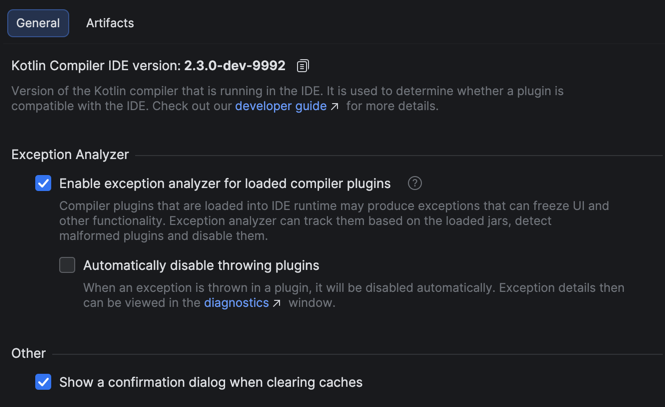
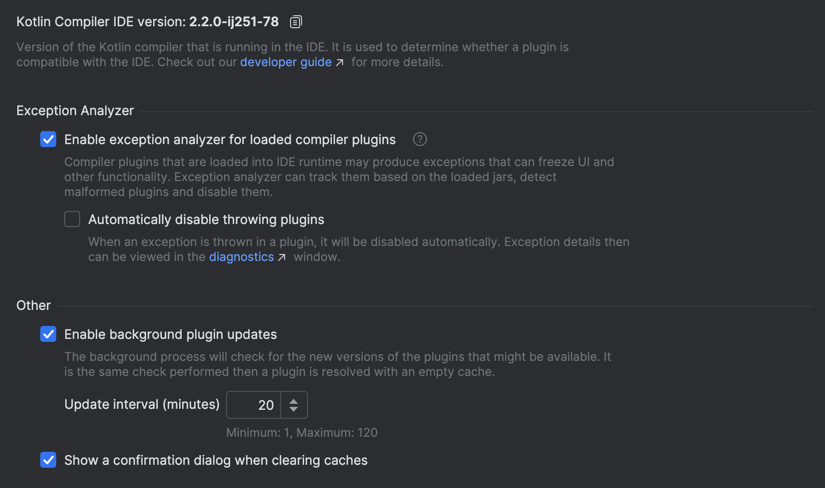
Added background updates settings

diff --git a/src/main/kotlin/com/github/mr3zee/kotlinPlugins/KotlinPluginsConfigurable.kt b/src/main/kotlin/com/github/mr3zee/kotlinPlugins/KotlinPluginsConfigurable.kt
@@ -16,6 +16,7 @@ import com.intellij.openapi.ui.emptyText
 import com.intellij.openapi.ui.popup.Balloon
 import com.intellij.openapi.ui.popup.JBPopupFactory
 import com.intellij.ui.ContextHelpLabel
+import com.intellij.ui.JBIntSpinner
 import com.intellij.ui.ToolbarDecorator
 import com.intellij.ui.awt.RelativePoint
 import com.intellij.ui.components.JBCheckBox
@@ -29,6 +30,7 @@ import com.intellij.ui.dsl.builder.RightGap
 import com.intellij.ui.dsl.builder.Row
 import com.intellij.ui.dsl.builder.actionButton
 import com.intellij.ui.dsl.builder.panel
+import com.intellij.ui.layout.selected
 import com.intellij.ui.table.JBTable
 import com.intellij.util.ui.FormBuilder
 import com.intellij.util.ui.JBUI
@@ -52,24 +54,30 @@ private class LocalState {
     var showCacheClearConfirmationDialog: Boolean = true
     var exceptionAnalyzerEnabled: Boolean = false
     var autoDiablePlugins: Boolean = false
+    var autoUpdateEnabled: Boolean = true
+    var autoUpdateInterval: Int = 20
 
     fun isModified(
         analyzer: KotlinPluginsExceptionAnalyzerState,
         tree: KotlinPluginsTreeState,
         settings: KotlinPluginsSettings.State,
+        storage: KotlinPluginsStorageState,
     ): Boolean {
         return repositories != settings.repositories ||
                 plugins != settings.plugins ||
                 pluginsEnabled != settings.pluginsEnabled ||
                 exceptionAnalyzerEnabled != analyzer.enabled ||
                 showCacheClearConfirmationDialog != tree.showClearCachesDialog ||
-                autoDiablePlugins != analyzer.autoDisable
+                autoDiablePlugins != analyzer.autoDisable ||
+                autoUpdateEnabled != storage.autoUpdate ||
+                autoUpdateInterval != storage.updateInterval
     }
 
     fun reset(
         analyzer: KotlinPluginsExceptionAnalyzerState,
         tree: KotlinPluginsTreeState,
         settings: KotlinPluginsSettings.State,
+        storage: KotlinPluginsStorageState,
     ) {
         repositories.clear()
         repositories.addAll(settings.repositories)
@@ -83,12 +91,15 @@ private class LocalState {
         exceptionAnalyzerEnabled = analyzer.enabled
         showCacheClearConfirmationDialog = tree.showClearCachesDialog
         autoDiablePlugins = analyzer.autoDisable
+        autoUpdateEnabled = storage.autoUpdate
+        autoUpdateInterval = storage.updateInterval
     }
 
     fun applyTo(
         analyzer: KotlinPluginsExceptionAnalyzerService,
         tree: KotlinPluginsTreeState,
         settings: KotlinPluginsSettings,
+        storage: KotlinPluginsStorage,
     ) {
         val enabledPlugins = plugins.map {
             it.copy(enabled = pluginsEnabled[it.name] ?: it.enabled)
@@ -98,6 +109,7 @@ private class LocalState {
 
         analyzer.updateState(exceptionAnalyzerEnabled, autoDiablePlugins)
         tree.showClearCachesDialog = showCacheClearConfirmationDialog
+        storage.updateState(autoUpdateEnabled, autoUpdateInterval)
     }
 
     private val KotlinPluginsSettings.State.pluginsEnabled: Map<String, Boolean>
@@ -115,6 +127,9 @@ internal class KotlinPluginsConfigurable(private val project: Project) : Configu
     private lateinit var clearCachesCheckBox: JBCheckBox
     private lateinit var enableAnalyzerCheckBox: JBCheckBox
     private lateinit var autoDisablePluginsCheckBox: JBCheckBox
+
+    private lateinit var autoUpdateCheckBox: JBCheckBox
+    private lateinit var autoUpdateInterval: JBIntSpinner
 
     private var rootPanel: JPanel? = null
 
@@ -303,6 +318,33 @@ internal class KotlinPluginsConfigurable(private val project: Project) : Configu
 
             group(KotlinPluginsBundle.message("group.other")) {
                 row {
+                    autoUpdateCheckBox = checkBox(KotlinPluginsBundle.message("settings.enable.auto.updates"))
+                        .comment(KotlinPluginsBundle.message("settings.enable.auto.updates.comment"))
+                        .applyToComponent {
+                            isSelected = local.autoUpdateEnabled
+                            addItemListener { local.autoUpdateEnabled = isSelected }
+                        }
+                        .component
+                }
+
+                indent {
+                    row {
+                        val range = 1..120
+                        autoUpdateInterval = spinner(range)
+                            .label(KotlinPluginsBundle.message("settings.auto.update.interval"))
+                            .comment(KotlinPluginsBundle.message("settings.auto.update.interval.comment", range.first, range.last))
+                            .enabledIf(autoUpdateCheckBox.selected)
+                            .applyToComponent {
+                                number = local.autoUpdateInterval
+                                addChangeListener {
+                                    local.autoUpdateInterval = number
+                                }
+                            }
+                            .component
+                    }
+                }
+
+                row {
                     cell(clearCachesCheckBox)
                 }
             }
@@ -365,24 +407,27 @@ internal class KotlinPluginsConfigurable(private val project: Project) : Configu
         val settingState = project.service<KotlinPluginsSettings>().safeState()
         val analyzerState = project.service<KotlinPluginsExceptionAnalyzerService>().state
         val treeState = project.service<KotlinPluginsTreeStateService>().state
+        val storageState = project.service<KotlinPluginsStorage>().state
 
-        return local.isModified(analyzerState, treeState, settingState)
+        return local.isModified(analyzerState, treeState, settingState, storageState)
     }
 
     override fun apply() {
         val settings = project.service<KotlinPluginsSettings>()
         val analyzer = project.service<KotlinPluginsExceptionAnalyzerService>()
         val treeState = project.service<KotlinPluginsTreeStateService>().state
+        val storage = project.service<KotlinPluginsStorage>()
 
-        local.applyTo(analyzer, treeState, settings)
+        local.applyTo(analyzer, treeState, settings, storage)
     }
 
     override fun reset() {
         val settings = project.service<KotlinPluginsSettings>().safeState()
         val analyzer = project.service<KotlinPluginsExceptionAnalyzerService>().state
         val treeState = project.service<KotlinPluginsTreeStateService>().state
+        val storage = project.service<KotlinPluginsStorage>().state
 
-        local.reset(analyzer, treeState, settings)
+        local.reset(analyzer, treeState, settings, storage)
 
         repoModel.items = ArrayList(local.repositories)
         pluginsModel.items = ArrayList(local.plugins)

diff --git a/src/main/kotlin/com/github/mr3zee/kotlinPlugins/KotlinPluginsStorage.kt b/src/main/kotlin/com/github/mr3zee/kotlinPlugins/KotlinPluginsStorage.kt
@@ -3,7 +3,12 @@
 package com.github.mr3zee.kotlinPlugins
 
 import com.intellij.openapi.Disposable
+import com.intellij.openapi.components.BaseState
 import com.intellij.openapi.components.Service
+import com.intellij.openapi.components.SimplePersistentStateComponent
+import com.intellij.openapi.components.State
+import com.intellij.openapi.components.Storage
+import com.intellij.openapi.components.StoragePathMacros.WORKSPACE_FILE
 import com.intellij.openapi.components.service
 import com.intellij.openapi.diagnostic.thisLogger
 import com.intellij.openapi.project.Project
@@ -29,6 +34,7 @@ import java.util.concurrent.ConcurrentHashMap
 import java.util.concurrent.Executors
 import java.util.concurrent.TimeUnit
 import java.util.concurrent.atomic.AtomicBoolean
+import java.util.concurrent.atomic.AtomicReference
 import kotlin.collections.forEach
 import kotlin.io.path.ExperimentalPathApi
 import kotlin.io.path.Path
@@ -167,11 +173,37 @@ internal suspend fun KotlinPluginDiscoveryUpdater.discoveredSync(
     )
 }
 
+internal class KotlinPluginsStorageState : BaseState() {
+    var autoUpdate by property(true)
+    var updateInterval by property(20)
+}
+
 @Service(Service.Level.PROJECT)
+@State(
+    name = "com.github.mr3zee.kotlinPlugins.KotlinPluginsStorageState",
+    storages = [Storage(WORKSPACE_FILE)],
+)
 internal class KotlinPluginsStorage(
     private val project: Project,
     parentScope: CoroutineScope,
-) {
+): SimplePersistentStateComponent<KotlinPluginsStorageState>(KotlinPluginsStorageState()) {
+    fun updateState(autoUpdate: Boolean, updateInterval: Int) {
+        val oldAutoUpdate = state.autoUpdate
+        val oldUpdateInterval = state.updateInterval
+
+        state.autoUpdate = autoUpdate
+
+        if (updateInterval > 0) {
+            state.updateInterval = updateInterval
+        } else {
+            state.updateInterval = 20
+        }
+
+        if (oldAutoUpdate != autoUpdate || oldUpdateInterval != updateInterval) {
+            resetAutoupdates()
+        }
+    }
+
     private val resolvedCacheDir = AtomicBoolean(false)
     private var _cacheDir: Path? = null
     private val scope = parentScope + SupervisorJob(parentScope.coroutineContext.job)
@@ -285,12 +317,19 @@ internal class KotlinPluginsStorage(
         }
     }
 
-    init {
-        scope.launch(CoroutineName("actualizer-root")) {
+    private val autoUpdateJob = AtomicReference<Job?>(null)
+    private fun resetAutoupdates() {
+        autoUpdateJob.getAndSet(null)?.cancel()
+
+        if (!state.autoUpdate) {
+            return
+        }
+
+        val newJob = scope.launch(CoroutineName("actualizer-root"), start = CoroutineStart.LAZY) {
             supervisorScope {
                 launch(CoroutineName("actualizer-loop")) {
                     while (isActive) {
-                        delay(2.minutes)
+                        delay(state.updateInterval.minutes)
                         logger.debug("Scheduled actualize triggered")
 
                         runActualization()
@@ -298,6 +337,16 @@ internal class KotlinPluginsStorage(
                 }
             }
         }
+
+        if (!autoUpdateJob.compareAndSet(null, newJob)) {
+            newJob.cancel()
+        } else {
+            newJob.start()
+        }
+    }
+
+    init {
+        resetAutoupdates()
 
         val fileWatcherDispatcher = fileWatcherThread.asCoroutineDispatcher()
 

diff --git a/GUIDE.md b/GUIDE.md
@@ -58,6 +58,7 @@ handling.
 * **Automatically disable throwing plugins:** If the analyzer is enabled, this setting tells KEFS to
   automatically disable any plugin that throws an exception. You will be notified by a
   balloon pop-up.
+* **Enable background plugin updates:** This setting tells KEFS to automatically check for plugin updates with a specified period.
 * **Show confirmation dialog when clearing caches:** Toggles the confirmation pop-up for the "Clear Caches"
   action.
 
